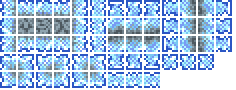
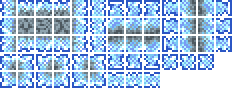
decor & bg progress

diff --git a/Content/NPCs/Mechanics/MoonLord/MoonlordBackground.cs b/Content/NPCs/Mechanics/MoonLord/MoonlordBackground.cs
@@ -1,0 +1,94 @@
+using Microsoft.Build.Execution;
+using Microsoft.Xna.Framework;
+using Microsoft.Xna.Framework.Graphics;
+using ReLogic.Content;
+using System;
+using System.Collections.Generic;
+
+namespace BossForgiveness.Content.NPCs.Mechanics.MoonLord;
+
+internal class MoonlordBackground : ModSystem
+{
+    public delegate bool PreDrawBackgroundElement(BackgroundElement element, ref Vector2 pos, ref Vector2 scale, ref Vector2 origin, ref Color color);
+
+    public class BackgroundElement(string texture, Vector2 pos, Vector2 scale, Color color, Rectangle? src, float parallaxLevel, PreDrawBackgroundElement onDraw)
+    {
+        public string Texture = texture;
+        public Vector2 Position = pos;
+        public Vector2 Scale = scale;
+        public Color Color = color;
+        public Rectangle? Source = src;
+        public float Parallax = parallaxLevel;
+        public PreDrawBackgroundElement OnDraw = onDraw;
+    }
+
+    public static Dictionary<string, Asset<Texture2D>> Textures = [];
+    public static List<BackgroundElement> Elements = [];
+    public static Dictionary<string, int> ElementCountsByName = [];
+
+    public override void Load()
+    {
+        Textures.Clear();
+        Add("Gradient");
+        Add("Shinespot");
+        Add("Object0");
+
+        static void Add(string tex) => Textures.Add(tex, Request(tex));
+        static Asset<Texture2D> Request(string tex) => ModContent.Request<Texture2D>("BossForgiveness/Content/NPCs/Mechanics/MoonLord/" + tex);
+    }
+
+    internal static void Draw()
+    {
+        PreDrawUpdate(Main.LocalPlayer, Main.LocalPlayer.GetModPlayer<MoonlordDomainPlayer>().DomainTimer);
+
+        Main.spriteBatch.Draw(Textures["Gradient"].Value, new Rectangle(-20, -20, Main.screenWidth + 40, Main.screenHeight + 40), Color.White);
+
+        foreach (var element in Elements)
+        {
+            Vector2 visualOffset = Main.screenPosition * new Vector2(element.Parallax, element.Parallax);
+            Vector2 drawPosition = element.Position + visualOffset - Main.screenPosition;
+            Vector2 scale = Vector2.One;
+            Vector2 origin = Vector2.Zero;
+            Color color = element.Color;
+
+            if (element.OnDraw?.Invoke(element, ref drawPosition, ref scale, ref origin, ref color) != false)
+            {
+                Main.spriteBatch.Draw(Textures[element.Texture].Value, drawPosition, element.Source, color, 0f, origin, scale, SpriteEffects.None, 0);
+            }
+        }
+    }
+
+    private static void PreDrawUpdate(Player player, int domainTimer)
+    {
+        if (!MaxedElements("Object0", 450))
+        {
+            var pos = new Vector2(Main.rand.NextFloat(-160, Main.maxTilesX * 16 + 160), Main.rand.NextFloat(Main.maxTilesY * 0.5f, Main.maxTilesY * 0.7f) * 16);
+            var scale = new Vector2(Main.rand.NextFloat(0.5f, 0.9f), Main.rand.NextFloat(0.8f, 2f));
+
+            Rectangle src = Main.rand.Next(2) switch
+            {
+                1 => new Rectangle(0, 0, 100, 80),
+                _ => new Rectangle(0, 82, 100, 58)
+            };
+
+            AddElement(new BackgroundElement("Object0", pos, scale, Color.White, src, Main.rand.NextFloat(1f), PreDrawMiscObject));
+        }
+    }
+
+    private static bool PreDrawMiscObject(BackgroundElement element, ref Vector2 pos, ref Vector2 scale, ref Vector2 origin, ref Color color)
+    {
+        float factor = element.Parallax;
+        scale *= 1 - factor;
+        color = Color.Lerp(color, Color.Gray, factor);
+        return true;
+    }
+
+    private static void AddElement(BackgroundElement element)
+    {
+        Elements.Add(element);
+        ElementCountsByName.TryAdd(element.Texture, 0);
+        ElementCountsByName[element.Texture]++;
+    }
+
+    private static bool MaxedElements(string name, int max) => ElementCountsByName.TryGetValue(name, out int count) && count >= max;
+}

diff --git a/Content/Tiles/Vanilla/MoonLord/OffburnTile.cs b/Content/Tiles/Vanilla/MoonLord/OffburnTile.cs
@@ -1,9 +1,56 @@
-using Terraria.ID;
+using Microsoft.Xna.Framework;
+using System;
+using System.Runtime.CompilerServices;
+using Terraria.ID;
 
 namespace BossForgiveness.Content.Tiles.Vanilla.MoonLord;
 
 internal class OffburnTile : ModTile
 {
+    public class OffburnDust : ModDust
+    {
+        public static ref bool IsSpawning(Dust dust) => ref Unsafe.Unbox<bool>(dust.customData);
+
+        public override void OnSpawn(Dust dust)
+        {
+            dust.frame = new Rectangle(0, 4 * Main.rand.Next(3), 2, 2);
+
+            if (Main.rand.NextBool(3))
+                dust.frame = new Rectangle(4, 6 * Main.rand.Next(3), 4, 4);
+
+            dust.scale = Main.rand.NextFloat(0.8f, 1.2f);
+            dust.customData = true;
+            dust.alpha = 250;
+        }
+
+        public override bool Update(Dust dust)
+        {
+            dust.position += dust.velocity;
+            dust.velocity.X += Main.windSpeedCurrent;
+            dust.velocity.Y += 0.2f;
+
+            ref bool spawning = ref IsSpawning(dust);
+
+            if (!spawning)
+                dust.alpha += 12;
+            else
+            {
+                dust.alpha -= 4;
+
+                if (dust.alpha < 0)
+                {
+                    dust.alpha = 0;
+                    spawning = false;
+                }
+            }
+
+            if (dust.alpha > 255)
+                dust.active = false;
+
+            return false;
+        }
+    }
+
     public override void SetStaticDefaults()
     {
         TileID.Sets.CanBeClearedDuringGeneration[Type] = false;
@@ -14,7 +61,32 @@ internal class OffburnTile : ModTile
         Main.tileBlockLight[Type] = true;
 
         AddMapEntry(new Color(65, 54, 99));
-
+        
         DustType = DustID.Lead;
     }
+
+    public override void EmitParticles(int i, int j, Tile tile, short tileFrameX, short tileFrameY, Color tileLight, bool visible)
+    {
+        if (Main.rand.NextBool(30))
+        {
+            TrySpawnDust(i, j - 1, new Vector2(0, -1), true);
+            TrySpawnDust(i, j + 1, new Vector2(0, 1), true);
+            TrySpawnDust(i + 1, j, new Vector2(1, 0), false);
+            TrySpawnDust(i - 1, j, new Vector2(-1, 0), false);
+        }
+    }
+
+    private static void TrySpawnDust(int i, int j, Vector2 direction, bool isUp)
+    {
+        if (WorldGen.SolidOrSlopedTile(i, j))
+            return;
+
+        float range = Main.rand.NextFloat(16);
+        Vector2 position = new Vector2(i, j).ToWorldCoordinates(isUp ? range : -direction.X * 8, !isUp ? range : -direction.Y * 8);
+        Vector2 velocity = new(RandomizeAxis(direction.X), RandomizeAxis(direction.Y));
+
+        Dust.NewDustPerfect(position, ModContent.DustType<OffburnDust>(), velocity);
+    }
+
+    private static float RandomizeAxis(float x) => x == 0 ? Main.rand.NextFloat(-1, 1) : x * Main.rand.NextFloat(2, 6);
 }

diff --git a/Content/NPCs/Mechanics/MoonLord/MoonLordPacificationSubworld.cs b/Content/NPCs/Mechanics/MoonLord/MoonLordPacificationSubworld.cs
@@ -1,4 +1,5 @@
 using BossForgiveness.Common;
+using BossForgiveness.Content.Tiles.Vanilla.MoonLord;
 using Microsoft.Xna.Framework;
 using Microsoft.Xna.Framework.Graphics;
 using ReLogic.Graphics;
@@ -17,7 +18,7 @@ namespace BossForgiveness.Content.NPCs.Mechanics.MoonLord;
 internal class MoonLordPacificationSubworld : Subworld
 {
     public override int Width => 1500;
-    public override int Height => 800;
+    public override int Height => 1200;
 
     public override List<GenPass> Tasks => [new PassLegacy("Reset", ResetStep)];
 
@@ -26,7 +27,6 @@ internal class MoonLordPacificationSubworld : Subworld
     protected void ResetStep(GenerationProgress progress, GameConfiguration configuration)
     {
         WorldGenerator.CurrentGenerationProgress = progress;
-        Main.ActiveWorldFileData.SetSeedToRandom();
         GenVars.structures = new();
 
         Main.spawnTileX = Main.maxTilesX / 2;
@@ -34,7 +34,8 @@ internal class MoonLordPacificationSubworld : Subworld
 
         Main.worldSurface = Main.maxTilesY - 5;
         Main.rockLayer = Main.maxTilesY - 2;
-
+        
+        Main.rand = new();
         FastNoiseLite noise = new(Main.rand.Next());
         noise.SetFrequency(0.02f);
         noise.SetDomainWarpAmp(195f);
@@ -47,7 +48,7 @@ internal class MoonLordPacificationSubworld : Subworld
             for (int j = (int)(Main.spawnTileY + 4 + noise.GetNoise(i, 30) * 12); j < Main.maxTilesY; ++j)
             {
                 Tile tile = Main.tile[i, j];
-                tile.TileType = TileID.AncientBlueBrick;
+                tile.TileType = (ushort)ModContent.TileType<OffburnTile>();
                 tile.HasTile = true;
             }
 
@@ -88,7 +89,7 @@ internal class MoonLordPacificationSubworld : Subworld
                     if (canTile && (!tilesPlacedByX.TryGetValue(i, out int count) || count < 5))
                     {
                         tile.HasTile = true;
-                        tile.TileType = TileID.ActiveStoneBlock;
+                        tile.TileType = (ushort)ModContent.TileType<OffburnTile>();
                         tilesPlacedByX.TryAdd(i, 0);
                         tilesPlacedByX[i]++;
                     }
@@ -99,6 +100,17 @@ internal class MoonLordPacificationSubworld : Subworld
         }
 
         progress.Message = Language.GetTextValue("Mods.BossForgiveness.Generation.Wait");
+
+        for (int i = 1; i < Main.maxTilesX - 1; ++i)
+        {
+            for (int j = 1; j < Main.maxTilesY - 1; ++j)
+            {
+                if (Main.rand.NextBool())
+                    Tile.SmoothSlope(i, j, false);
+            }
+
+            progress.Set(i / (double)Main.maxTilesX);
+        }
     }
 
     public override void DrawMenu(GameTime gameTime)

diff --git a/Content/NPCs/Mechanics/MoonLord/MoonLordSubworldSystem.cs b/Content/NPCs/Mechanics/MoonLord/MoonLordSubworldSystem.cs
@@ -1,7 +1,5 @@
 using Microsoft.Xna.Framework;
-using Microsoft.Xna.Framework.Graphics;
 using MonoMod.Cil;
-using ReLogic.Content;
 using SubworldLibrary;
 using Terraria.DataStructures;
 using Terraria.GameContent;
@@ -10,7 +8,7 @@ namespace BossForgiveness.Content.NPCs.Mechanics.MoonLord;
 
 internal class MoonLordSubworldSystem : ModSystem
 {
-    public const float MaxFadeTime = 10 * 60;
+    public const float MaxFadeTime = 7 * 60;
 
     public static bool InSubworld => SubworldSystem.Current is MoonLordPacificationSubworld;
 
@@ -18,7 +16,6 @@ internal class MoonLordSubworldSystem : ModSystem
 
     public override void Load()
     {
-        On_Main.DrawBlack += HijackDrawBlack;
         On_Lighting.AddLight_int_int_int_float += BlockLight_Torch;
         On_Player.QuickMount += HijackQuickMount;
         On_Main.DrawBG += DrawBG;
@@ -55,6 +52,7 @@ internal class MoonLordSubworldSystem : ModSystem
 
         if (InSubworld)
         {
+            MoonlordBackground.Draw();
             Main.spriteBatch.Draw(TextureAssets.MagicPixel.Value, new Rectangle(-20, -20, Main.screenWidth + 40, Main.screenHeight + 40), Color.White * PlayerFadeEffect);
         }
     }
@@ -86,21 +84,30 @@ internal class MoonLordSubworldSystem : ModSystem
 
         orig(i, j, torchID, lightAmount);
     }
-
-    private void HijackDrawBlack(On_Main.orig_DrawBlack orig, Main self, bool force)
-    {
-        orig(self, force);
-    }
 }
 
 public class MoonlordDomainPlayer : ModPlayer
 {
     internal int FadeTimer = 0;
+    internal int DomainTimer = 0;
 
-    public override void OnEnterWorld() => FadeTimer = (int)MoonLordSubworldSystem.MaxFadeTime * 3;
+    public override void OnEnterWorld()
+    {
+        if (SubworldSystem.Current is not MoonLordPacificationSubworld)
+        {
+            return;
+        }
+
+        FadeTimer = (int)MoonLordSubworldSystem.MaxFadeTime * 3;
+        MoonlordBackground.Elements.Clear();
+        MoonlordBackground.ElementCountsByName.Clear();
+    }
 
     public override void PreUpdate()
     {
         FadeTimer--;
+        DomainTimer++;
     }
+
+    public override bool CanUseItem(Item item) => FadeTimer <= 0;
 }

diff --git a/Content/NPCs/Mechanics/MoonLord/MoonLordPacificationTracker.cs b/Content/NPCs/Mechanics/MoonLord/MoonLordPacificationTracker.cs
@@ -48,7 +48,7 @@ internal class MoonLordPacificationTracker : ModSystem
 
     private void DrawPlayerFullMod(On_LegacyPlayerRenderer.orig_DrawPlayerFull orig, LegacyPlayerRenderer self, Camera camera, Player drawPlayer)
     {
-        if (TeleportTimer > 0)
+        if (TeleportTimer > 0 && SubworldSystem.Current is not MoonLordPacificationSubworld)
             return;
 
         orig(self, camera, drawPlayer);
@@ -85,9 +85,11 @@ internal class MoonLordPacificationTracker : ModSystem
 
 public class MoonLordEmptyPlayer : ModPlayer
 {
+    public override bool CanUseItem(Item item) => MoonLordPacificationTracker.TeleportTimer <= 0;
+
     public override void PreUpdateMovement()
     {
-        if (MoonLordPacificationTracker.TeleportTimer > 0)
+        if (MoonLordPacificationTracker.TeleportTimer > 0 && SubworldSystem.Current is not MoonLordPacificationSubworld)
             Player.velocity = Vector2.Zero;
 
         if (MoonLordPacificationTracker.TeleportTimer >= MoonLordPacificationTracker.MaxTeleportTimer && SubworldSystem.Current is null)
